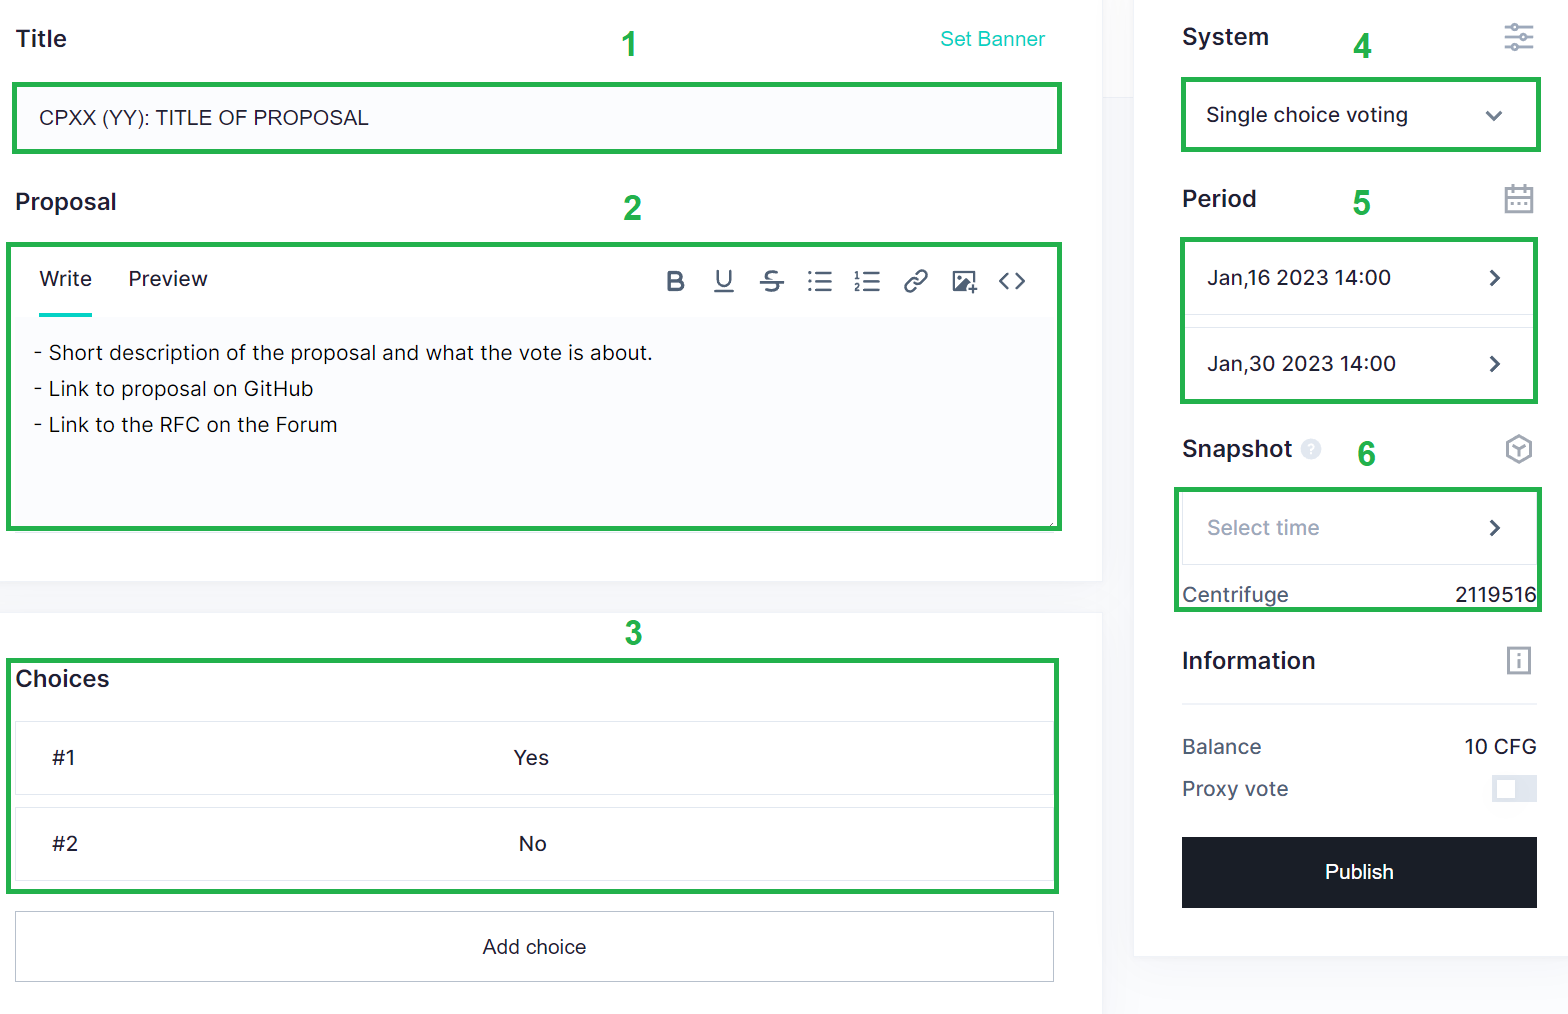
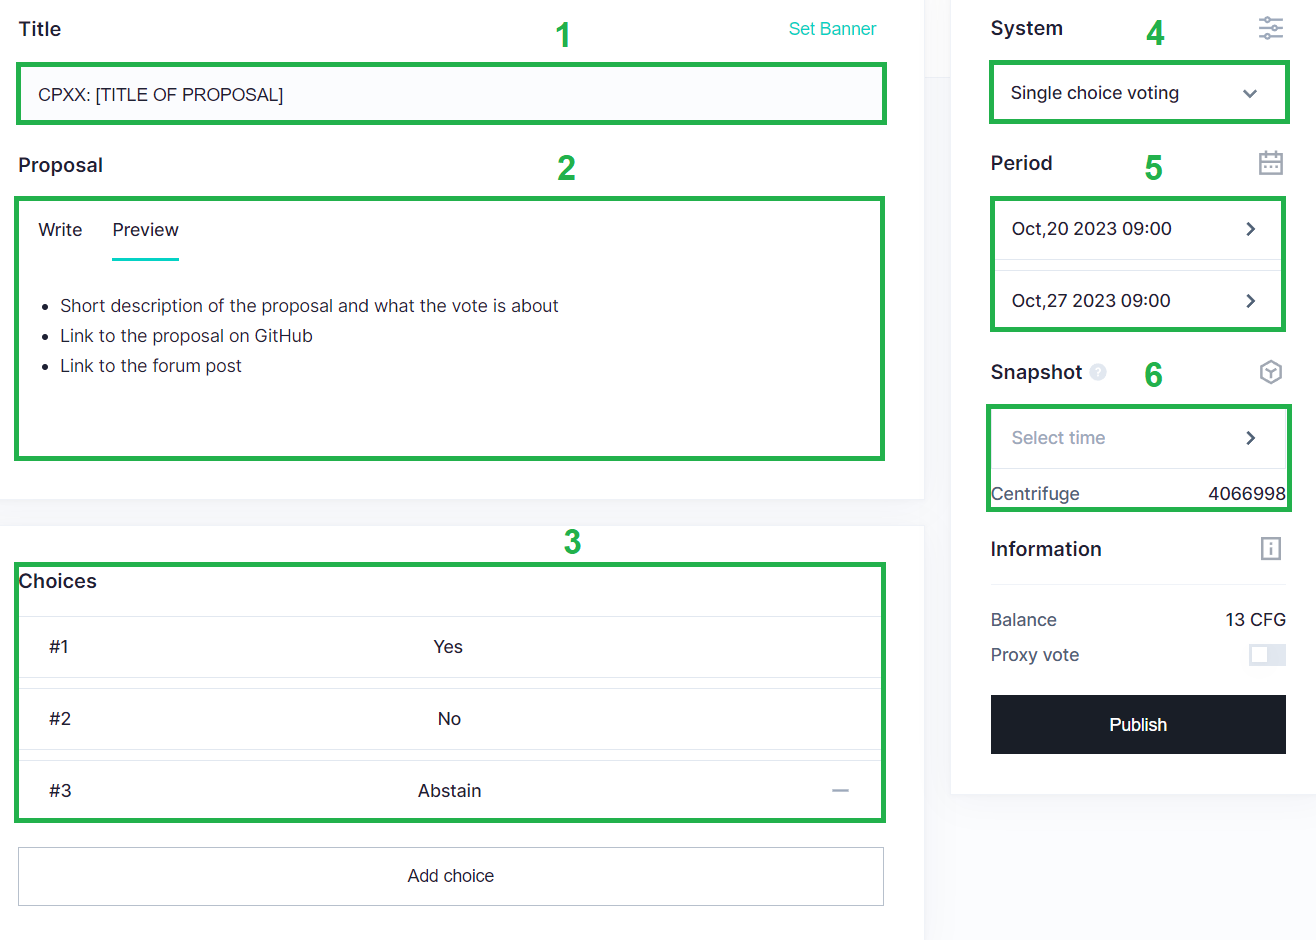
Updated screenshots for off-chain voting (added abstain)

diff --git a/docs/use/offchain-voting/index.md b/docs/use/offchain-voting/index.md
@@ -20,11 +20,11 @@ Below you can see how to fill out the information.
 ![](./images/CreateSnap.png)
 
 1. **Title** of the proposal 
-2. **Short description** of the proposal including links to GitHub and the RFC
-3. Write the **options** (typically Yes and No)
+2. **Short description** of the proposal including links to GitHub and the forum post
+3. Write the **options** (typically Yes, No and Abstain)
 4. Keep it on **Single choice voting** (only one option can be voted on)
 5. Select the **duration** of the OpenSquare snapshot
-6. The **time of the snapshot** (do not change - by default this will be the time the snapshot was created)
+6. The **time of the snapshot** (do not change - by default this will be the time/block height the snapshot was created)
 
 Press *Publish* and the OpenSquare snapshot is created.
 
